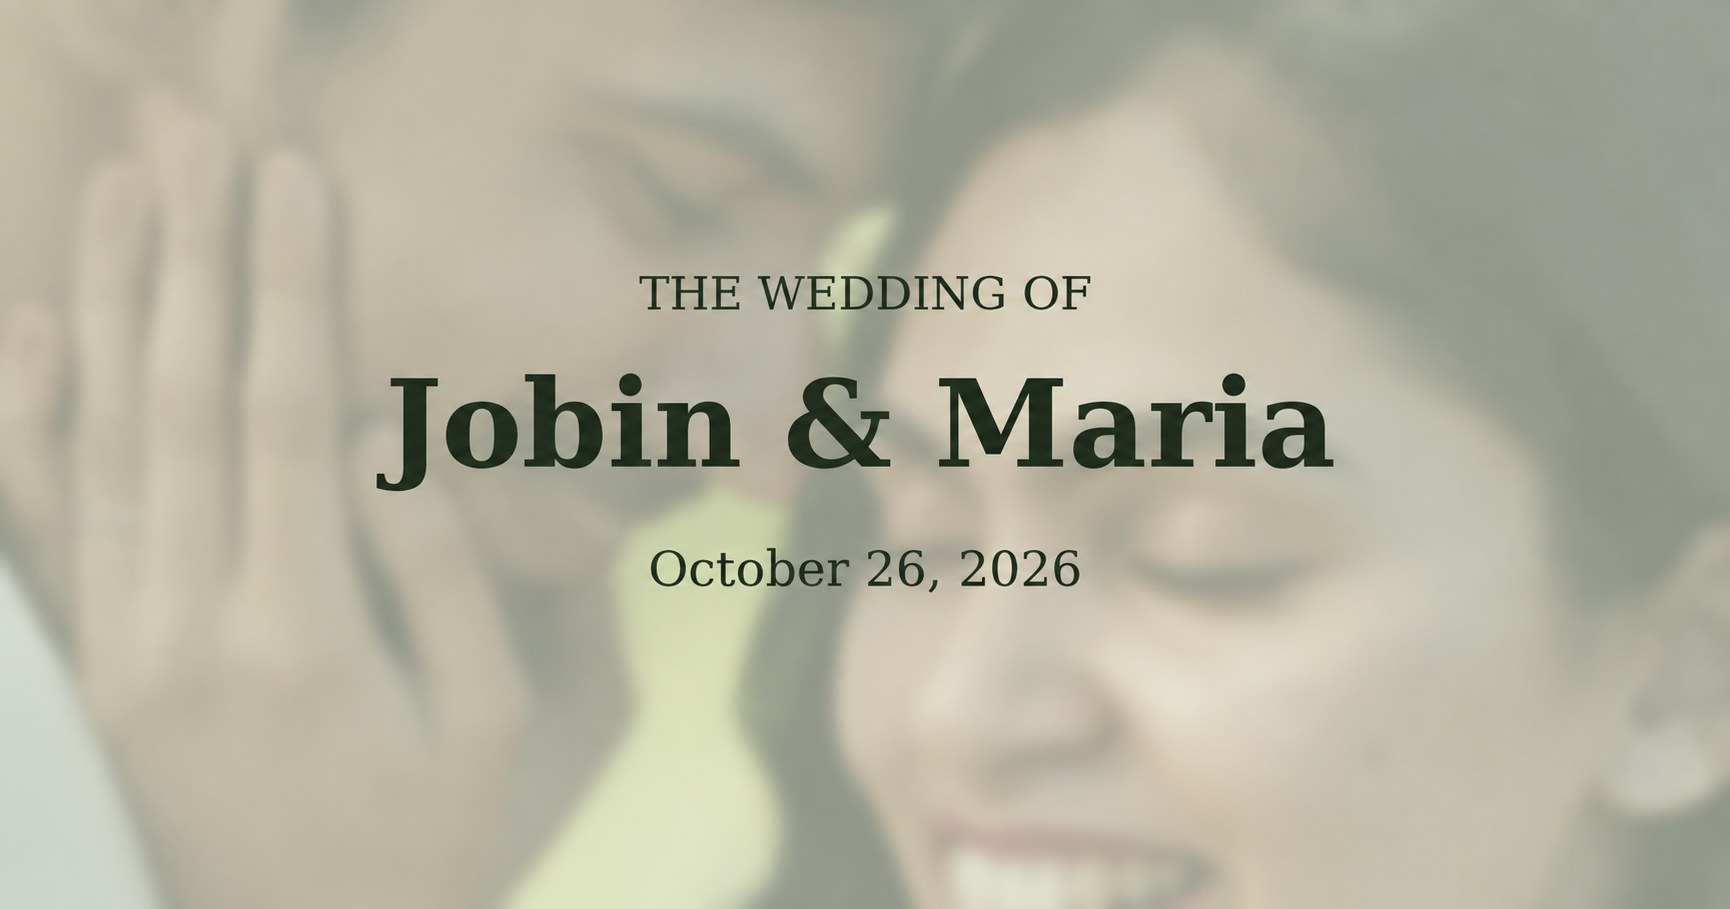
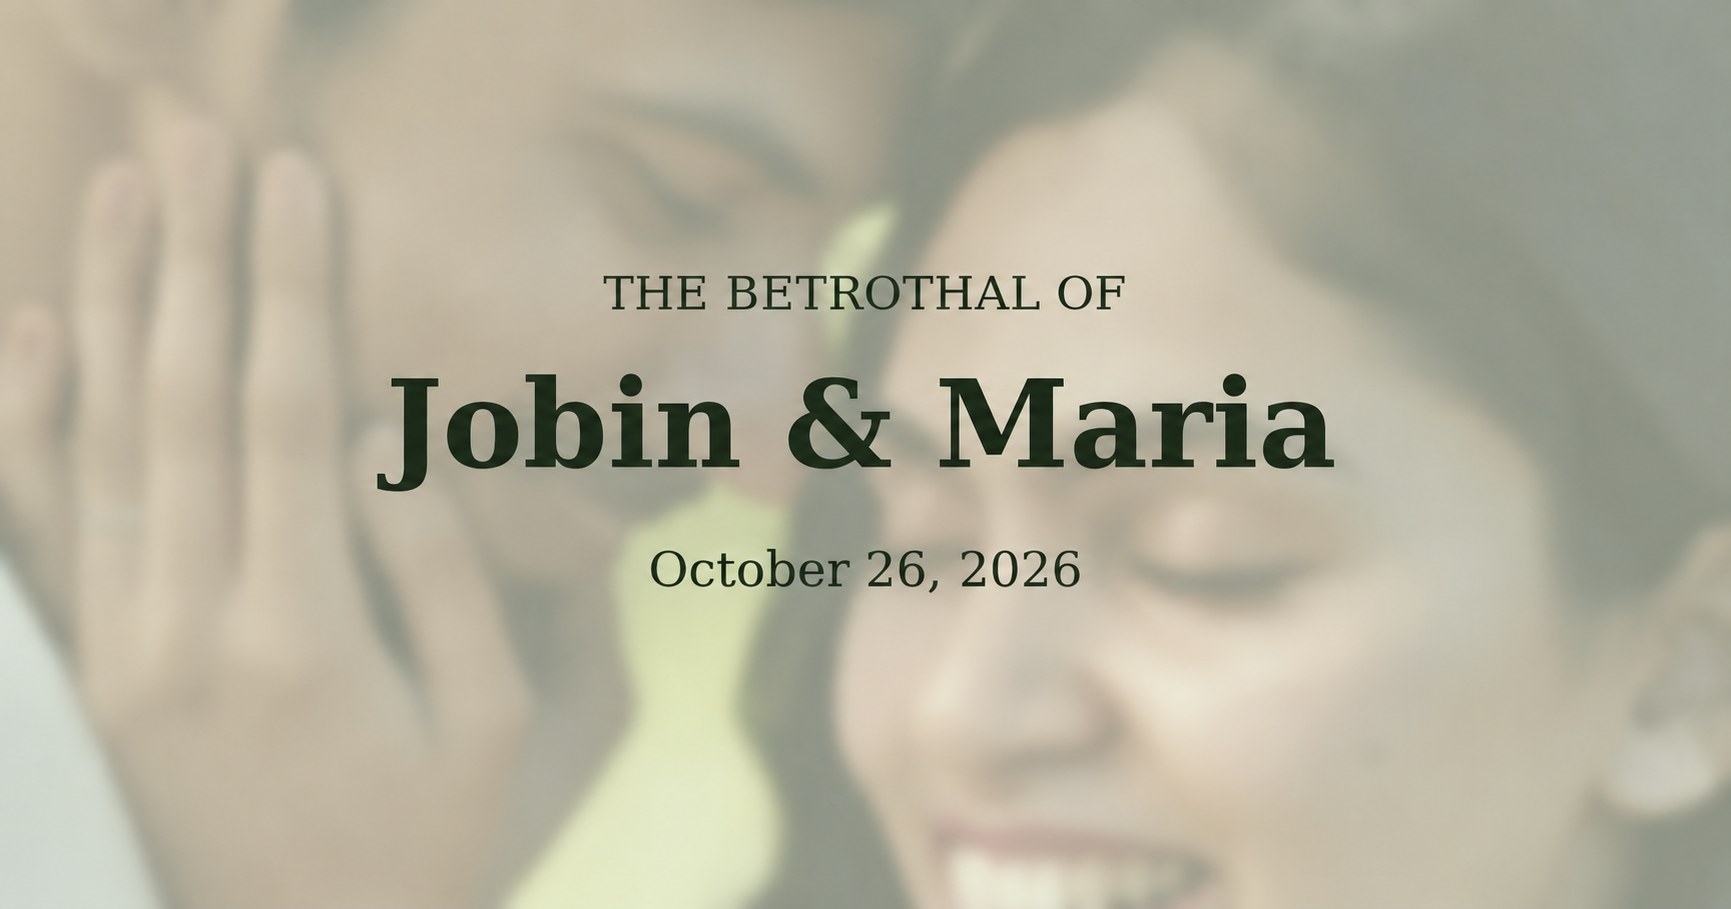
Fix OG tags for WhatsApp, update venue to Lorethumatha Church Chakkampuzha, fix JOBIN GEORGE nowrap

Changed region(s): [[0.3434, 0.2772, 0.6555, 0.3388], [0.3746, 0.6161, 0.5306, 0.6469], [0.5618, 0.6161, 0.6243, 0.6469]]

diff --git a/index.html b/index.html
@@ -4,25 +4,25 @@
 <head>
   <meta charset="UTF-8">
   <meta name="viewport" content="width=device-width, initial-scale=1.0, viewport-fit=cover">
-  <title>Jobin &amp; Maria — October 26, 2026</title>
+  <title>Jobin George & Maria Joseph — Betrothal, October 26, 2026</title>
   <meta name="description"
-    content="Jobin George and Maria Joseph invite you to their betrothal on Monday, 26 October 2026 at St. Joseph Church, Karikkad, Thanneermukkom.">
+    content="Jobin George and Maria Joseph invite you to their betrothal on Monday, 26 October 2026 at Lorethumatha Church, Chakkampuzha.">
   <meta property="og:type" content="website">
   <meta property="og:url" content="https://jobin-mariya-betrothal.vercel.app/">
-  <meta property="og:site_name" content="Jobin &amp; Maria Betrothal">
-  <meta property="og:title" content="Jobin &amp; Maria — October 26, 2026">
+  <meta property="og:site_name" content="Jobin George & Maria Joseph Betrothal">
+  <meta property="og:title" content="Jobin George & Maria Joseph — Betrothal on October 26, 2026">
   <meta property="og:description"
-    content="Jobin George and Maria Joseph invite you to their betrothal on Monday, 26 October 2026 at St. Joseph Church, Karikkad, Thanneermukkom.">
+    content="Jobin George and Maria Joseph invite you to their betrothal on Monday, 26 October 2026 at Lorethumatha Church, Chakkampuzha.">
   <meta property="og:image" content="https://jobin-mariya-betrothal.vercel.app/og.jpg">
   <meta property="og:image:secure_url" content="https://jobin-mariya-betrothal.vercel.app/og.jpg">
   <meta property="og:image:type" content="image/jpeg">
   <meta property="og:image:width" content="1200">
   <meta property="og:image:height" content="630">
-  <meta property="og:image:alt" content="Jobin &amp; Maria Betrothal — October 26, 2026">
+  <meta property="og:image:alt" content="Jobin George & Maria Joseph Betrothal — October 26, 2026">
   <meta name="twitter:card" content="summary_large_image">
-  <meta name="twitter:title" content="Jobin &amp; Maria — October 26, 2026">
+  <meta name="twitter:title" content="Jobin George & Maria Joseph — Betrothal on October 26, 2026">
   <meta name="twitter:description"
-    content="Jobin George and Maria Joseph invite you to their betrothal on Monday, 26 October 2026 at St. Joseph Church, Karikkad, Thanneermukkom.">
+    content="Jobin George and Maria Joseph invite you to their betrothal on Monday, 26 October 2026 at Lorethumatha Church, Chakkampuzha.">
   <meta name="twitter:image" content="https://jobin-mariya-betrothal.vercel.app/og.jpg">
   <link rel="image_src" href="https://jobin-mariya-betrothal.vercel.app/og.jpg">
   <link rel="preconnect" href="https://fonts.googleapis.com">
@@ -1615,8 +1615,7 @@
           <strong style="font-weight:600;">RANIKUTTY JOSEPH</strong>,<br>
           <span style="font-size:.78em;">POOVATHUMKAL, CHAKKAMPUZHA P.O.,<br>RAMAPURAM</span><br>
           cordially invite your esteemed presence with family in the wedding ceremony of our beloved daughter
-          <strong style="font-weight:600;">MARIA JOSEPH</strong> with <strong style="font-weight:600;">JOBIN
-            GEORGE</strong>.
+          <strong style="font-weight:600;">MARIA JOSEPH</strong> with <strong style="font-weight:600;white-space:nowrap;">JOBIN GEORGE</strong>.
         </p>
         <div class="names-row reveal reveal-d3">
           <div class="name-block">
